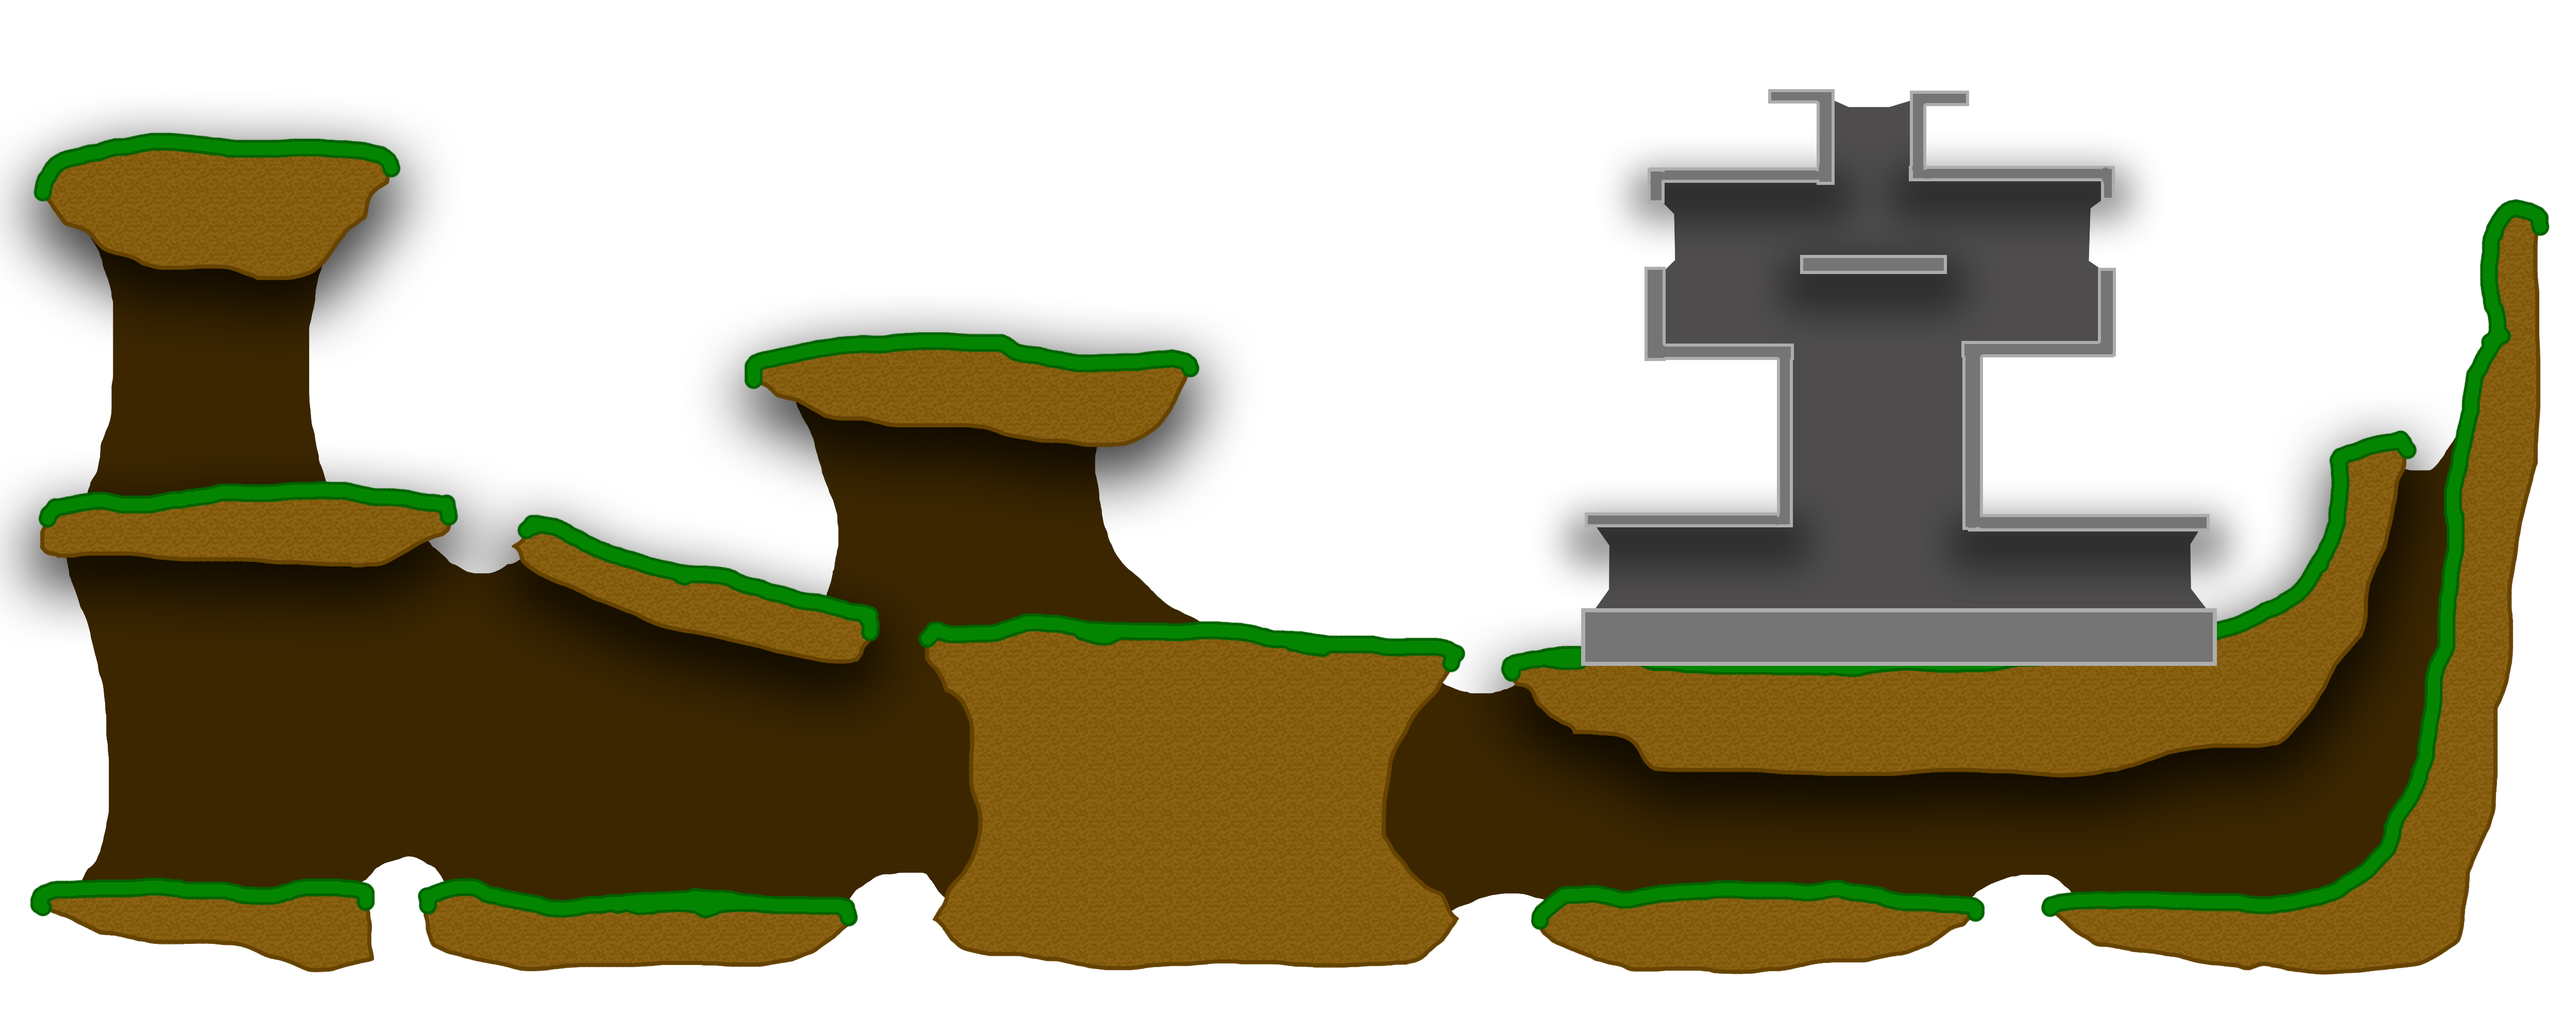
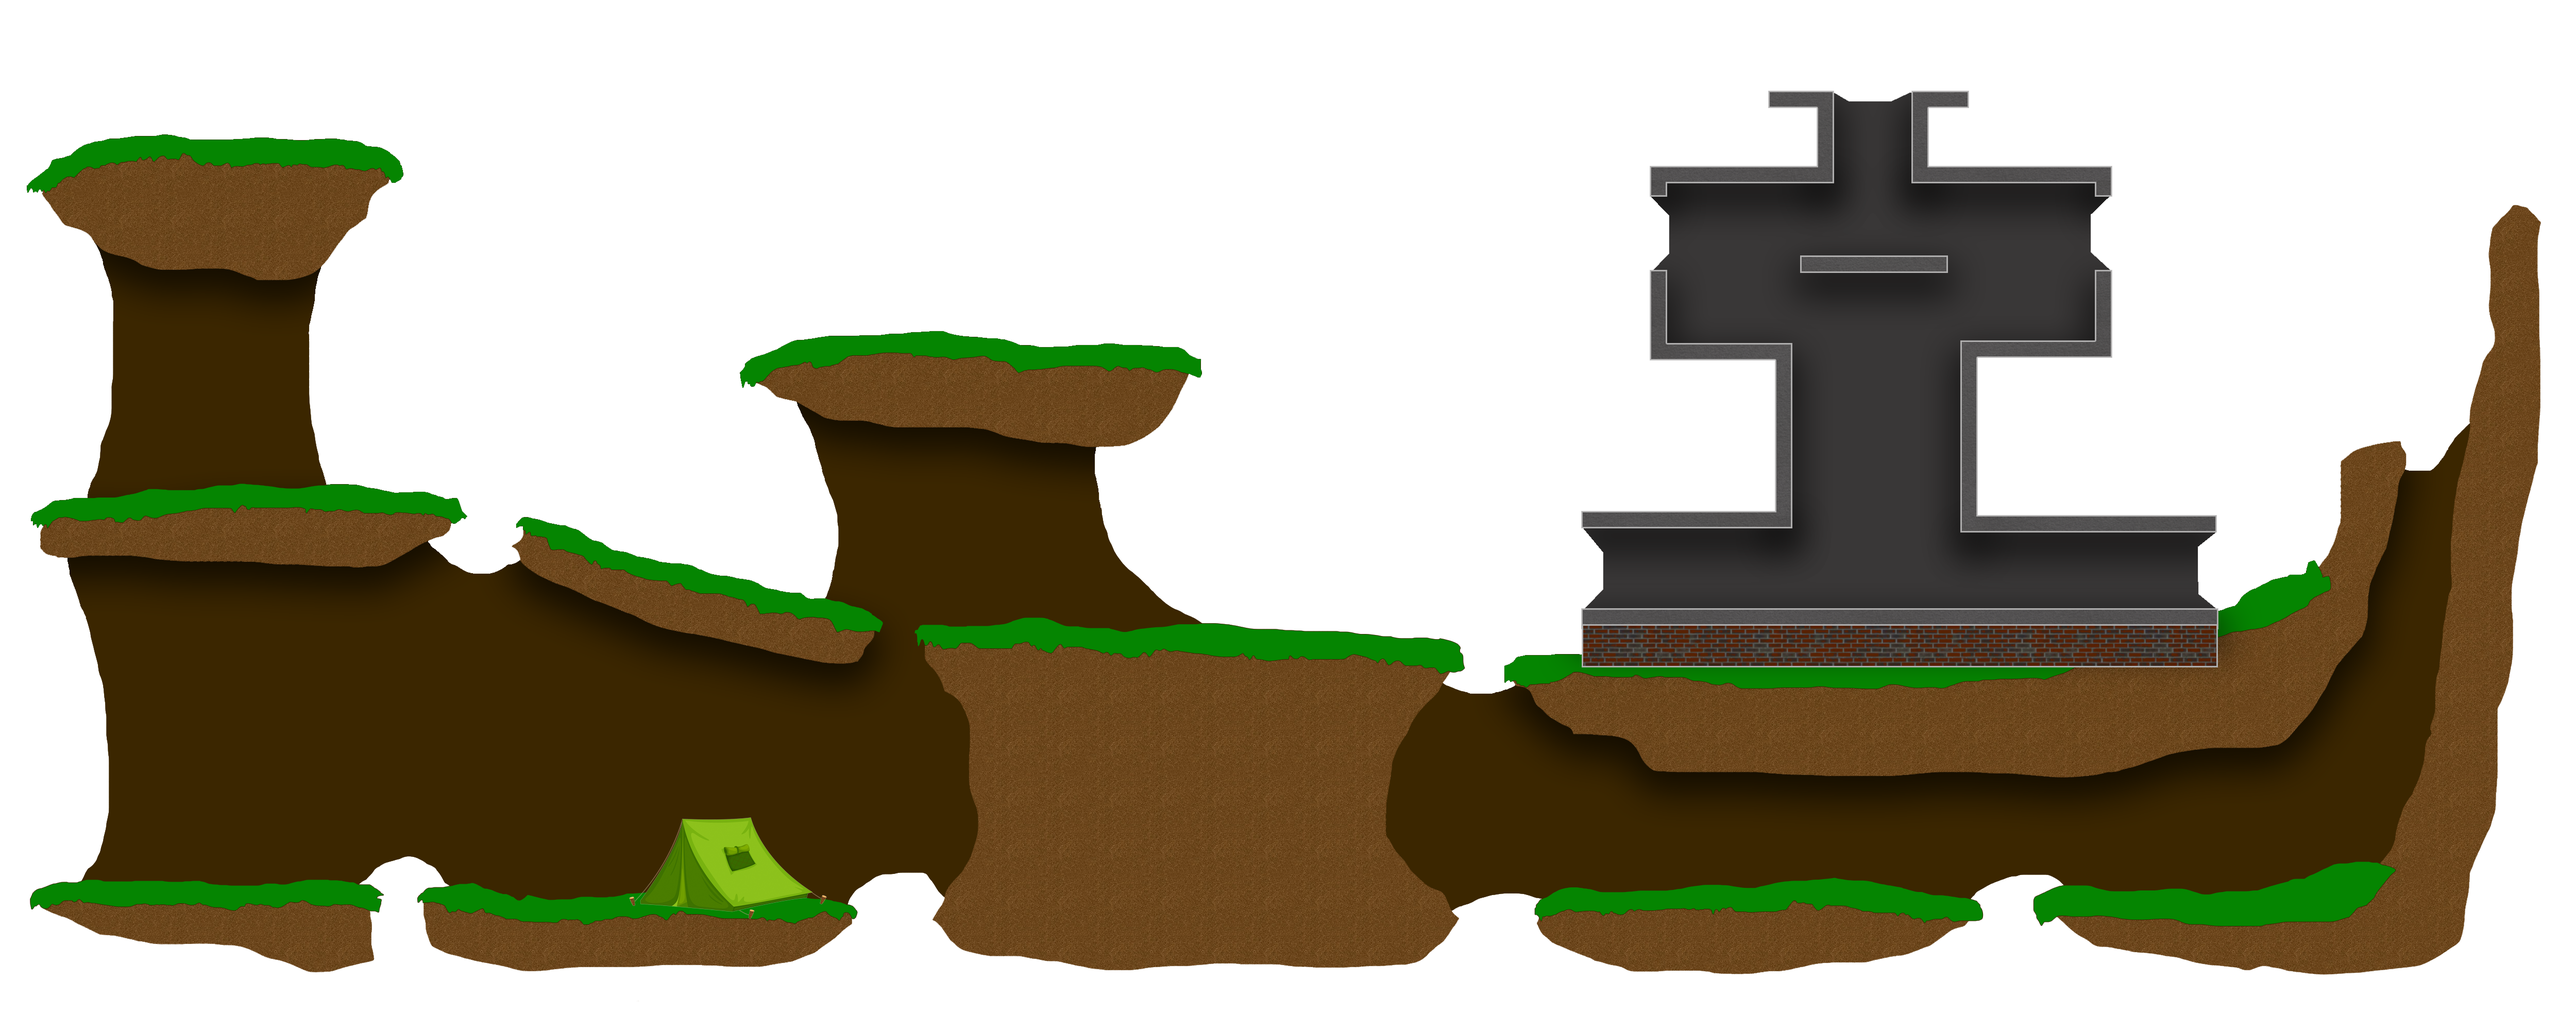
Improved graphics
Improved the graphics a bit, added red player when hit, changed bg,
updated left,right movement accln

Changed region(s): [[0.0, 0.062, 0.9984, 0.961], [0.2808, 0.31, 0.4992, 0.496], [0.0, 0.093, 0.1872, 0.31]]

diff --git a/code/game.js b/code/game.js
@@ -590,6 +590,7 @@ var img_heart = img_res('heart.png');
 var img_boost = img_res('boost.png');
 var img_ammu = img_res('ammu.png');
 var img_arrow = img_res('arrow.png');
+var img_hit = img_res('hitred.png');
 var lastm = 0;
 var lmid = 0; 
 var lmv = 0;
@@ -623,6 +624,12 @@ game.prototype.redraw_world = function()
           angle = global_game.gun.body.GetAngle()+offs;
           global_game.ctx.drawImage(global_game.gun.imgss, pl.x - 0.3 + (3.3 * Math.cos(angle))  , pl.y + (3.3 * Math.sin(angle)), 1, 1);
           global_game.gun.showshoot--;
+        }
+
+    if(playerhit >= 0){
+          var offs = -0.1;
+          global_game.ctx.drawImage(img_hit, pl.x - 1.3 , pl.y - 2, 2.6, 4);
+          playerhit--;
         }
 
     plm = pl;
@@ -917,6 +924,8 @@ game.prototype.key_up = function()
       }
   }
 
+var playerhit = 0;
+
 game.prototype.setup_collision_handler = function()
   {
     var that = this;
@@ -937,6 +946,7 @@ game.prototype.setup_collision_handler = function()
         if(a.tp == "bullet"){that.destroy_object(a);
           if(b.m && global_game.health > 0 && !a.mp){
             global_game.health--;
+            playerhit++;
             if(global_game.health < 5){
               global_game.player.dieded(a.name);
             }
@@ -950,6 +960,7 @@ game.prototype.setup_collision_handler = function()
         if(b.tp == "bullet"){that.destroy_object(b);
           if(a.m && global_game.health > 0 && !b.mp){
             global_game.health--;
+            playerhit++;
             if(global_game.health < 5){
               global_game.player.dieded(b.name);
             }
@@ -1254,12 +1265,12 @@ player.prototype.tick = function()
   {    
       if(this.do_move_left)
       {
-          this.add_velocity(new b2Vec2(-1,0));
+          this.add_velocity(new b2Vec2(-0.2,0));
       }
       
       if(this.do_move_right)
       {
-          this.add_velocity(new b2Vec2(1,0));
+          this.add_velocity(new b2Vec2(0.2,0));
       }
       
       if(this.do_move_up)
